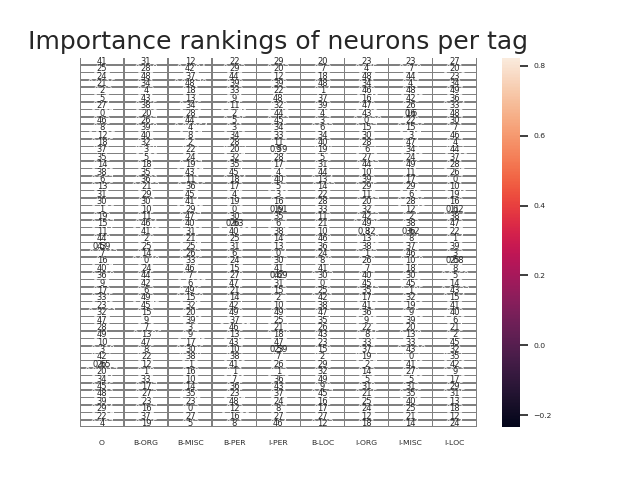
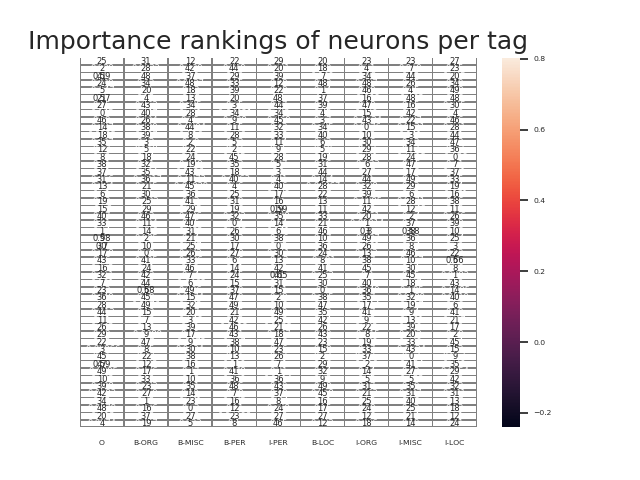
add ablation

diff --git a/.ipynb_checkpoints/main-checkpoint.py b/.ipynb_checkpoints/main-checkpoint.py
@@ -37,7 +37,7 @@ random.seed(seed_num)
 torch.manual_seed(seed_num)
 np.random.seed(seed_num)
 
-def importance_matrix(sensitivities):
+def importance_matrix(sensitivities, data):
     '''
     Builds a matrix of tag sensitivities
     :param sensitivities: This is a matrix of [num_tags, num_neurons],
@@ -77,8 +77,11 @@ def importance_matrix(sensitivities):
     ttl.set_position([0.5, 1.05])
     plt.show()
     ax.figure.savefig("ImportanceRankings.png")
+    print('Neuron importance ranking for each NER tag:')
+    tags = [data.label_alphabet.get_instance(tag) for tag in sorted(data.tag_counts)]
+    del(tags[0]) # remove PAD tag
     for i, l in enumerate(important_lists):
-        print ("importance rankings for tag {}: {}".format(i, l))
+        print ("\t{}\t{}".format(tags[i], l))
     return important_nps
 
 def heatmap_sensitivity(sensitivities,
@@ -123,13 +126,11 @@ def get_sensitivity_matrix(label, debug=True):
     avg_for_label = data.tag_contributions[label]/data.tag_counts[label]
     sum_other_counts = 0
 
-    # data.tag_contributions[0]  # this SHOULD be zero for masked label
-    sum_other_contributions = np.zeros((10, 50))# data.tag_contributions[0]  # this will be zero for masked label
+    # data.tag_contributions[0] is for the padding label and can be ignored
+    sum_other_contributions = np.zeros((10, 50))
     for l in data.tag_counts:
 
-        if l != label and l != 0:  #  if l != label:
-
-            #  WAS if l != label and l != 0:, but if sum_other_counts is bigger, the entire sensitivity is bigger
+        if l != label and l != 0:  #  if l != label: (to consider the padding label which is 0)
             sum_other_counts += data.tag_counts[l]
             sum_other_contributions += data.tag_contributions[l]
     avg_for_others = sum_other_contributions/sum_other_counts
@@ -521,7 +522,7 @@ def load_model_to_test(data, train=False, dev=True, test=False):
     if (dev):
         speed, acc, p, r, f, _,_, sensitivities = evaluate(data, model, "dev")
         heatmap_sensitivity(sensitivities, data.pretrained_model_path, testname="dev")
-        importance_matrix(sensitivities)
+        importance_matrix(sensitivities, data)
 
 
         if data.seg:

diff --git a/model/.ipynb_checkpoints/wordsequence-checkpoint.py b/model/.ipynb_checkpoints/wordsequence-checkpoint.py
@@ -89,7 +89,7 @@ class WordSequence(nn.Module):
             output:
                 Variable(batch_size, sent_len, hidden_dim)
         """
-        
+    
         word_represent = self.wordrep(word_inputs,feature_inputs, word_seq_lengths, char_inputs, char_seq_lengths, char_seq_recover)
         ## word_embs (batch_size, seq_len, embed_size)
         if self.word_feature_extractor == "CNN":
@@ -124,9 +124,9 @@ class WordSequence(nn.Module):
         ## feature_out (batch_size, seq_len, hidden_size)
         ''' Ablation neuron'''
         ## this is the feature_order of B-PER, you can change it to what you get.
-        feature_order = [22, 44, 29, 33, 39, 20, 9, 3, 34, 11, 28, 5, 2, 45, 35, 18, 40, 4, 25, 32, 19, 31, 26, 30, 0, 17, 6, 27, 14, 24, 37, 15, 47, 49, 21, 42, 46, 43, 38, 10, 13, 1, 41, 36, 48, 7, 16, 12, 23, 8]
+        feature_order = [22, 44, 29, 33, 39, 20, 3, 9, 34, 11, 28, 5, 2, 45, 35, 18, 40, 4, 25, 31, 19, 32, 0, 26, 30, 17, 27, 6, 14, 24, 15, 37, 47, 49, 21, 42, 46, 43, 38, 10, 13, 1, 41, 36, 48, 7, 16, 12, 23, 8]
         mask_np = np.ones(feature_out.shape)
-        mask_np[:, :, feature_order[0:25]] = 0
+        mask_np[:, :, feature_order[0:3]] = 0
         mask_tensor = torch.from_numpy(mask_np)
         mask_tensor = torch.tensor(mask_tensor, dtype=torch.float32)
         device = torch.device("cuda")

diff --git a/model/wordsequence.py b/model/wordsequence.py
@@ -89,7 +89,7 @@ class WordSequence(nn.Module):
             output:
                 Variable(batch_size, sent_len, hidden_dim)
         """
-        
+    
         word_represent = self.wordrep(word_inputs,feature_inputs, word_seq_lengths, char_inputs, char_seq_lengths, char_seq_recover)
         ## word_embs (batch_size, seq_len, embed_size)
         if self.word_feature_extractor == "CNN":
@@ -124,9 +124,9 @@ class WordSequence(nn.Module):
         ## feature_out (batch_size, seq_len, hidden_size)
         ''' Ablation neuron'''
         ## this is the feature_order of B-PER, you can change it to what you get.
-        feature_order = [22, 44, 29, 33, 39, 20, 9, 3, 34, 11, 28, 5, 2, 45, 35, 18, 40, 4, 25, 32, 19, 31, 26, 30, 0, 17, 6, 27, 14, 24, 37, 15, 47, 49, 21, 42, 46, 43, 38, 10, 13, 1, 41, 36, 48, 7, 16, 12, 23, 8]
+        feature_order = [22, 44, 29, 33, 39, 20, 3, 9, 34, 11, 28, 5, 2, 45, 35, 18, 40, 4, 25, 31, 19, 32, 0, 26, 30, 17, 27, 6, 14, 24, 15, 37, 47, 49, 21, 42, 46, 43, 38, 10, 13, 1, 41, 36, 48, 7, 16, 12, 23, 8]
         mask_np = np.ones(feature_out.shape)
-        mask_np[:, :, feature_order[0:25]] = 0
+        mask_np[:, :, feature_order[0:3]] = 0
         mask_tensor = torch.from_numpy(mask_np)
         mask_tensor = torch.tensor(mask_tensor, dtype=torch.float32)
         device = torch.device("cuda")

diff --git a/main.py b/main.py
@@ -78,9 +78,9 @@ def importance_matrix(sensitivities, data):
     plt.show()
     ax.figure.savefig("ImportanceRankings.png")
     print('Neuron importance ranking for each NER tag:')
+    tags = [data.label_alphabet.get_instance(tag) for tag in sorted(data.tag_counts)]
+    del(tags[0]) # remove PAD tag
     for i, l in enumerate(important_lists):
-        tags = [data.label_alphabet.get_instance(tag) for tag in sorted(data.tag_counts)]
-        del(tags[0]) # remove PAD tag
         print ("\t{}\t{}".format(tags[i], l))
     return important_nps
 
